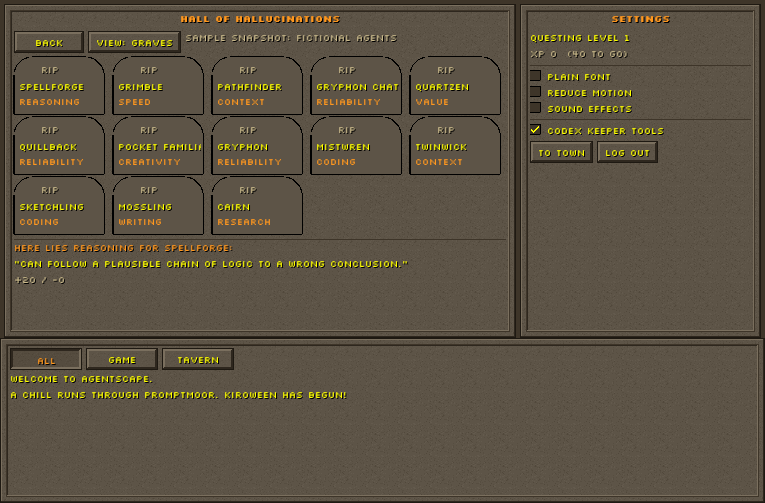
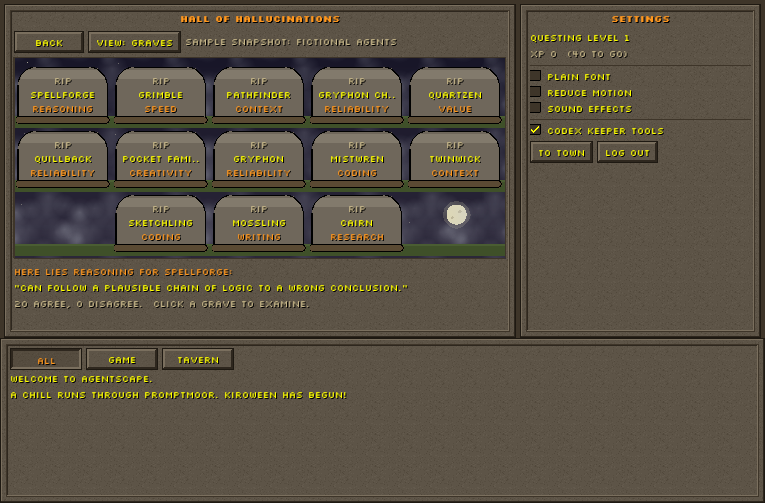
Docs and screenshots pass: The Wilds and profiles in README, DESIGN and SUBMISSION, fresh renders, stale captures removed

Changed region(s): [[0.0, 0.0596, 0.6614, 0.6262]]

diff --git a/docs/SUBMISSION.md b/docs/SUBMISSION.md
@@ -56,15 +56,16 @@ We rebuilt them with today's tech: a native C++20 client on SDL3 and Dear ImGui,
 > - **Boons and Banes**: short, community-voted strengths and weaknesses, ranked by Wilson score.
 > - **The Proving Grounds**: compare up to three Agents side by side for a given task type.
 > - **Hiscores**: leaderboards for Agents by any Skill and for the most helpful adventurers.
+> - **The Wilds**: start a coding session with a familiar (or solo) before you sit down to code. You earn 1 XP a minute, even with the game closed, while your Adventurer squashes bug monsters alongside the familiar, or chops, mines and fishes on its own.
 > - **The Hall of Hallucinations** (Kiroween only): a graveyard where the community's most-agreed AI failures rest under tombstones.
 >
 > It ships with a fictional sample community (14 made-up familiars, 8 townsfolk, their notes and quest logs), so every screen is alive on first run, and your own logs update it instantly.
 >
-> Under the nostalgic skin, it's a native C++20 app (SDL3 + Dear ImGui) that also runs in the browser through WebAssembly. It works offline, supports full keyboard and gamepad navigation, and is backed by 29 property-based correctness properties and 393 automated tests, including a headless run of the whole demo path.
+> Under the nostalgic skin, it's a native C++20 app (SDL3 + Dear ImGui) that also runs in the browser through WebAssembly. It works offline, supports full keyboard and gamepad navigation, and is backed by 33 property-based correctness properties and 410 automated tests, including a headless run of the whole demo path.
 >
 > **Built with:** C++20 · SDL3 · Dear ImGui · SQLite · Emscripten (WebAssembly) · Catch2 · RapidCheck · CMake · GitHub Actions.
 
-Screenshots for the gallery: `docs/screenshots/readme/` (world map, Costumer, Codex, examine card, quest scroll, level-up, Tavern, Hiscores, Hall of Hallucinations). ✏ YOU: add the video link.
+Screenshots for the gallery: `docs/screenshots/readme/` (login, world map, Costumer, Codex, examine card, Proving Grounds, quest scroll, level-up, Tavern, Hiscores, Hall of Hallucinations, The Wilds idle, with a familiar, and solo). Regenerate them with the current build at any time; every one comes from the real app. ✏ YOU: add the video link.
 
 ---
 
@@ -81,7 +82,8 @@ Every shot below exists in the app as built. The smoke test `smoke_demo_path` pl
 | 1:25–1:40 | Proving Grounds with 3 familiars, green highlights and `*` marks | "Compare up to three side by side." |
 | 1:40–2:10 | "Write a Quest Log" → 3-step scroll → submit → **+250 XP** drop → level-up message → fireworks → "You have unlocked: …" | "Log a quest, earn XP, and level up. The Codex updates instantly." |
 | 2:10–2:25 | Tavern board with the townsfolk's notes, then Hiscores: familiars by Reliability, then Adventurers with the search jump | "Read other adventurers' quests, and climb the Hiscores." |
-| 2:25–2:40 | Hall of Hallucinations tombstones | "And during Kiroween, the community's most-agreed AI failures rest in the Hall of Hallucinations." |
+| 2:25–2:32 | The Wilds: pick Gryphon, *Start session*, the Adventurer and a wisp fight an Off-by-One Goblin | "Coding right now? Start a session, and earn XP while your Adventurer squashes bugs." |
+| 2:32–2:40 | Hall of Hallucinations tombstones | "And during Kiroween, the community's most-agreed AI failures rest in the Hall of Hallucinations." |
 | 2:40–2:55 | Montage: desktop window and browser tab side by side, a spec's `tasks.md`, the CI matrix all green, property tests passing | "One C++ codebase, desktop and web. Built spec-first with Kiro: steering, specs, hooks, and property-based tests." |
 
 Recording notes: record the desktop build at 1080p, with the game frame at 2× scale (1530×1006 inside the window). Use no music, or original/CC0 chiptune only. Turn on *Codex Keeper tools* beforehand only if you want to show moderation. The sample familiars are fictional, so there are no third-party logos or names on screen.
@@ -94,13 +96,13 @@ Recording notes: record the desktop build at 1080p, with the game frame at 2× s
 
 ### Kiro surfaces used
 
-- **Kiro Web (autonomous agent in a cloud sandbox).** Most of the implementation (the large majority of commits across PRs #1–#35) was written by the Kiro agent working in the browser-based environment: reading the specs, implementing one task slice per pull request, running the build and the whole test suite in its sandbox, rendering the real app headlessly to check every screen, and opening each PR with what it had and had not verified. The team reviewed and merged every PR, and steered between them in plain language ("use a branch and PR approach", "switch the sample data to fictional agents", "seed sample logs, then the final checkpoint", "increase the font size").
-- **Human-authored changes** sat between agent PRs where the team wanted control: for example CI hardening and test fixes (#31) and Guest remember-me with Back navigation (#34).
+- **Kiro Web (autonomous agent in a cloud sandbox).** Most of the implementation (the large majority of commits across PRs #1–#36) was written by the Kiro agent working in the browser-based environment: reading the specs, implementing one task slice per pull request, running the build and the whole test suite in its sandbox, rendering the real app headlessly to check every screen, and opening each PR with what it had and had not verified. The team reviewed and merged every PR, and steered between them in plain language ("use a branch and PR approach", "switch the sample data to fictional agents", "seed sample logs, then the final checkpoint", "increase the font size").
+- **Human-authored changes** sat between agent PRs where the team wanted control: CI hardening and test fixes (#31), Guest remember-me with Back navigation (#34), Pages gated on green CI and GitHub sign-in with platform TLS (#38), the navigation pass and local profiles (#39), and the coding-sessions spec and The Wilds.
 - ✏ YOU: if you also used the Kiro IDE or CLI (for the specs, steering or hooks), say which tasks you preferred on each surface.
 
 ### Spec-driven development
 
-- Four feature specs, each with `requirements.md` (EARS-style acceptance criteria), `design.md`, and `tasks.md`: [`game-shell`](../.kiro/specs/game-shell/), [`character-creator`](../.kiro/specs/character-creator/), [`agent-codex`](../.kiro/specs/agent-codex/), [`quest-logs`](../.kiro/specs/quest-logs/). They are layered by dependency (shell → creator → codex → quests), share one domain glossary, and spell out cross-spec contracts such as `applyRatingDelta` and the XP ledger.
+- Five feature specs, each with `requirements.md` (EARS-style acceptance criteria), `design.md`, and `tasks.md`: [`game-shell`](../.kiro/specs/game-shell/), [`character-creator`](../.kiro/specs/character-creator/), [`agent-codex`](../.kiro/specs/agent-codex/), [`quest-logs`](../.kiro/specs/quest-logs/), [`coding-sessions`](../.kiro/specs/coding-sessions/). They are layered by dependency (shell → creator → codex → quests → coding sessions), share one domain glossary, and spell out cross-spec contracts such as `applyRatingDelta` and the XP ledger.
 - Each `design.md` lists numbered **Correctness Properties** mapped to requirement IDs (33 in total); every one became a RapidCheck test named `Property <n>: <title>`.
 - **The spec shaped the order of work.** Every slice started with the pure domain and its properties, then persistence and services, then screens, then a smoke test. Each PR said which tasks it closed and what was still unverified, and `tasks.md` carries the notes.
 - **Design reviews that changed the design, recorded back into the specs:**
@@ -148,6 +150,7 @@ In the cloud sandbox, the agent ran the same gates the hooks encode by hand on e
 - Deleting a user cascaded their Note votes away but left the agree/disagree counts inflated. Idle Guests are now purged through the normal delete paths.
 - Reserving the townsfolk's names broke an older smoke test that created an Adventurer called "Mossbeard". It was caught before the PR was opened (after one red push), fixed, and pinned with a test.
 - A stacked PR (#33) was merged into a branch that had already merged, so the final checkpoint missed `main` until #35. Lesson recorded: don't stack PRs on branches that may merge first.
+- The Wilds' first push failed CI on Linux only: a test looped over `{1ULL, 42ULL, wildsSeed(...)}`. `std::uint64_t` is `unsigned long` on Linux but `unsigned long long` elsewhere, so the braced list mixed two types and GCC refused to deduce it. macOS and Windows were green. The fix names the type of every element.
 
 ### Custom agents
 
@@ -162,7 +165,7 @@ In the cloud sandbox, the agent ran the same gates the hooks encode by hand on e
 
 ## 6. Judge instructions (private Devpost field)
 
-> Open **https://marquisxgrove.github.io/AgentScape/** and click **Play as Guest**. No install or account needed; everything is saved in your browser. A Guest starts at Questing level 13, so writing your first Quest Log (Grand Codex → any familiar → *Write a Quest Log*) shows a level-up with fireworks.
+> Open **https://marquisxgrove.github.io/AgentScape/** and click **Play as Guest**. No install or account needed; everything is saved in your browser. A Guest starts at Questing level 13, so writing your first Quest Log (Grand Codex → any familiar → *Write a Quest Log*) shows a level-up with fireworks. To see coding sessions, go to *The Wilds* (bottom of the town map, or *Places*), pick a familiar and press *Start session*.
 >
 > Desktop builds (Windows, macOS, Linux) are on the Releases page; they are unsigned (right-click → Open on macOS, "Run anyway" on Windows).
 >

diff --git a/README.md b/README.md
@@ -33,6 +33,10 @@ Everything is stored locally in SQLite (in IndexedDB on the web). No server, no 
 | The quest scroll's gem ratings | The Tavern quest board | The Proving Grounds |
 | ![Hiscores](docs/screenshots/readme/09-hiscores.png) | ![Hall of Hallucinations](docs/screenshots/readme/10-hall-of-hallucinations.png) | ![Level-up](docs/screenshots/readme/07-level-up.png) |
 | Hiscores | The Hall of Hallucinations | A Guest's first Quest Log: +250 XP and a level-up |
+| ![The Wilds](docs/screenshots/readme/11-wilds.png) | ![A coding session with a familiar](docs/screenshots/readme/12-wilds-session.png) | ![A solo coding session](docs/screenshots/readme/13-wilds-solo.png) |
+| The Wilds: pick who you're coding with | Coding with Gryphon: bugs squashed while you work | Coding solo: the Adventurer skills instead |
+| ![Login](docs/screenshots/readme/00-login.png) | | |
+| The Kiroween login: Play as Guest or create a profile | | |
 
 ## Playing
 
@@ -86,7 +90,7 @@ emrun build/web/agentscape.html   # add ?kiroween=on to the URL to force Kirowee
 | Command | Description |
 |---|---|
 | `cmake --preset dev` · `cmake --build --preset dev` | Configure and build (Debug, with the dev QA screens) |
-| `ctest --preset dev` | All unit, integration, property and smoke tests (393 at submission) |
+| `ctest --preset dev` | All unit, integration, property and smoke tests (410 at submission) |
 | `ctest --preset dev -L property` / `-L smoke` | Property-based tests only / the headless smoke tests only |
 | `cmake --preset tests-only` · `cmake --build --preset tests-only` · `ctest --preset tests-only` | Domain, service and database tests without SDL or a window |
 | `cmake --build --preset dev --target format` / `tidy` | `clang-format` / `clang-tidy` |
@@ -131,12 +135,12 @@ Release binaries aren't code-signed. On macOS, right-click the app and choose **
 | [docs/ASSETS.md](docs/ASSETS.md) | Asset provenance and licenses |
 | [THIRD_PARTY_NOTICES.md](THIRD_PARTY_NOTICES.md) | Libraries and fonts, with their licenses |
 | [.kiro/steering/](.kiro/steering/) | Product, tech, structure, art direction, testing guidance for Kiro |
-| [.kiro/specs/](.kiro/specs/) | Feature specs: game-shell, character-creator, agent-codex, quest-logs |
+| [.kiro/specs/](.kiro/specs/) | Feature specs: game-shell, character-creator, agent-codex, quest-logs, coding-sessions |
 | [.kiro/hooks/](.kiro/hooks/) | Automated format, build-and-test, property-test, migration-sync, art-review, and submission guards |
 
 ## How Kiro was used
 
-AgentScape is built spec-first with Kiro: always-on steering for the domain glossary and architecture, four layered feature specs with property-based correctness properties, and agent hooks that automate quality gates. See the full write-up in [docs/SUBMISSION.md](docs/SUBMISSION.md#5-how-we-used-kiro).
+AgentScape is built spec-first with Kiro: always-on steering for the domain glossary and architecture, five layered feature specs with property-based correctness properties, and agent hooks that automate quality gates. See the full write-up in [docs/SUBMISSION.md](docs/SUBMISSION.md#5-how-we-used-kiro).
 
 ## Credits and disclaimer
 

diff --git a/docs/DESIGN.md b/docs/DESIGN.md
@@ -43,6 +43,7 @@ The target **bonus prize** is **Best Demo**: the whole core loop fits in a 3-min
 | **The Tavern** | Tavern | Quest board of Quest Logs (reviews) |
 | **Hiscores Obelisk** | Hiscores | Agent and Adventurer leaderboards |
 | **Hall of Hallucinations** (graveyard, Kiroween only) | Graveyard | Top-voted Banes as tombstones with epitaphs |
+| **The Wilds** (the road south) | Wilds | Coding sessions: passive XP while you code, with the familiar fighting bug monsters beside you |
 
 ## 5. Core loop
 
@@ -78,6 +79,11 @@ flowchart LR
   - 3-step quest scroll with overall and per-Skill gem ratings, quick tags, helpful votes, and the XP ledger.
   - Level-ups with fireworks, Agent and Adventurer Hiscores.
   - Spec: [`quest-logs`](../.kiro/specs/quest-logs/requirements.md)
+
+- **Coding sessions and The Wilds:**
+  - Start a session with a familiar or solo; 1 XP a minute, paid while playing and for time away; at most 4 hours a session and 8 hours a day.
+  - The Adventurer fights original bug monsters with the familiar, or chops, mines and fishes when solo; a summary on Stop offers *Write a Quest Log*.
+  - Spec: [`coding-sessions`](../.kiro/specs/coding-sessions/requirements.md)
 
 ### Stretch (only if time allows)
 
@@ -245,6 +251,7 @@ Property-based tests (RapidCheck) cover every pure domain rule; each spec's `des
 | M3 | Codex | Seeded Agents and NPC adventurers, examine cards, notes and votes, compare view. | Done, plus proposals, Keeper tools and the Hall of Hallucinations. |
 | M4 | Quests | Quest Logs update levels. XP, level-ups, unlocks, Hiscores. | Done, plus sample Quest Logs from the townsfolk. |
 | M5 | Polish and demo | Graveyard, fireworks, art pass, a11y pass, smoke test green, release binaries published, video recorded, submission filed. | Graveyard, fireworks, smoke tests and release workflow done; video, release tag and Devpost form are the remaining manual steps. |
+| M6 | Coding sessions | Start and stop a session, XP while the game is closed, session and daily caps, The Wilds scene. | Done (coding-sessions spec). |
 
 ## 15. Risks and mitigations
 

diff --git a/docs/ASSETS.md b/docs/ASSETS.md
@@ -41,4 +41,4 @@ Not art, but shipped content, so it is listed here too. All of it is **fictional
 
 ## Not in the build
 
-`docs/screenshots/` holds screenshots of the app (original, project license) for the README and reviews. They are not shipped.
+`docs/screenshots/readme/` holds the README and Devpost screenshots (original, project license). They are not shipped. Every one is a real render of the app, made headlessly by `tools/render_readme_shots.sh` (plus the level-up frame from the `smoke_demo_path` test), so they can be regenerated after any UI change. Older per-PR captures were removed from the tree once they no longer matched the UI; they remain in git history.
